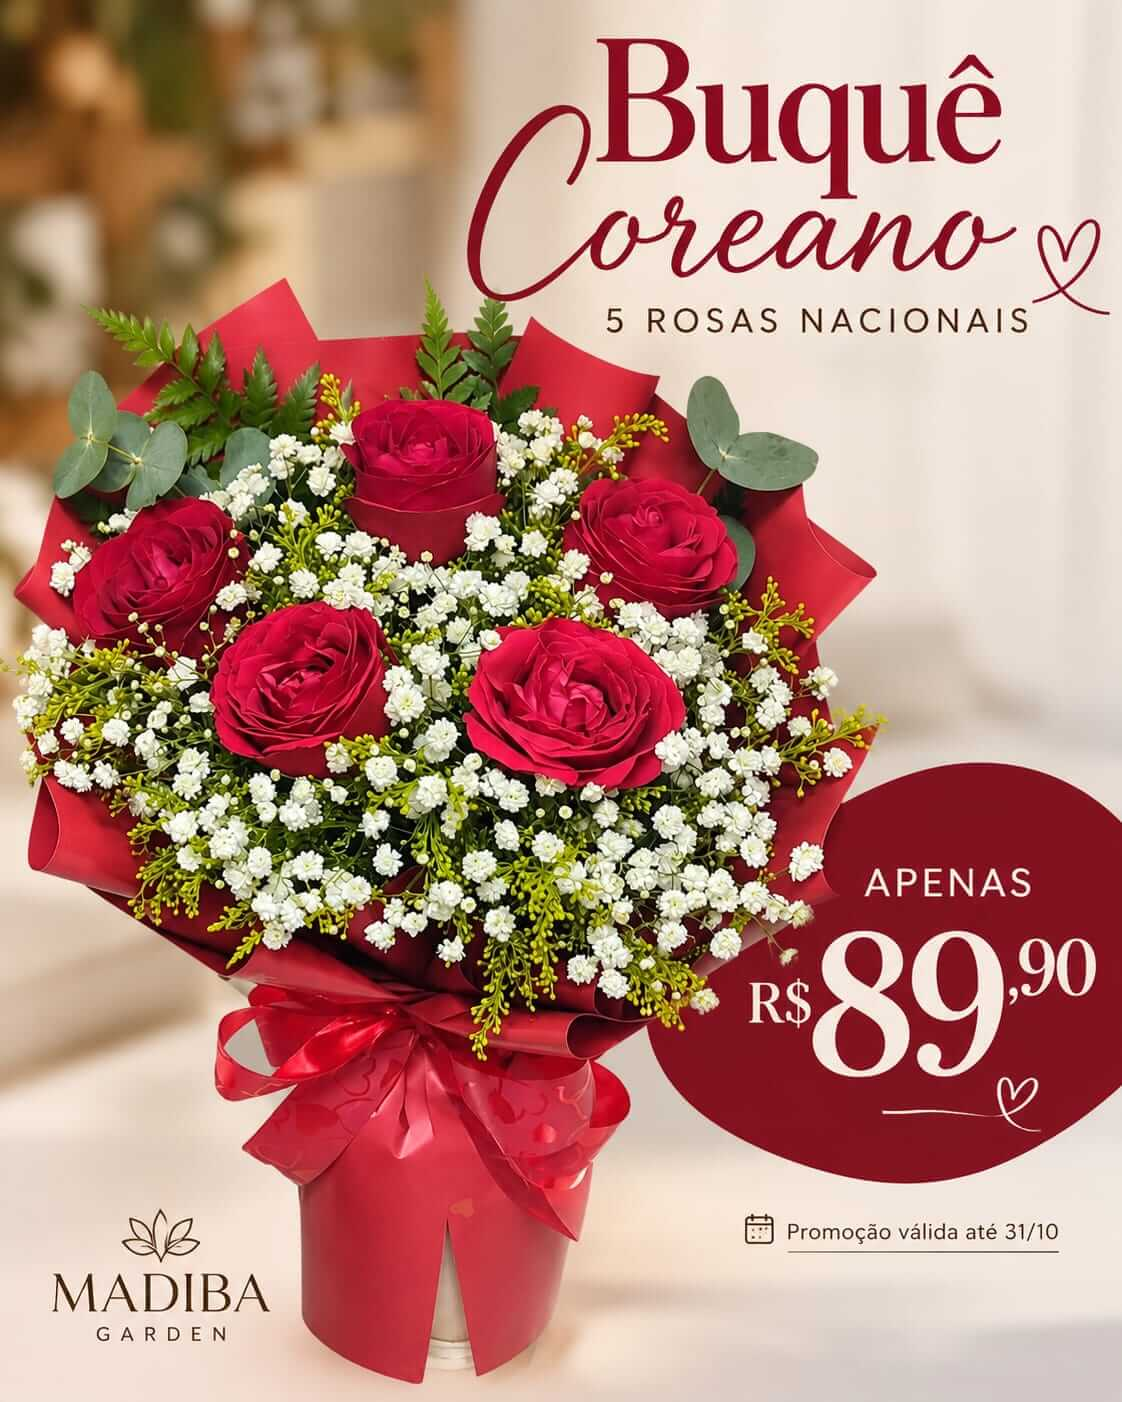
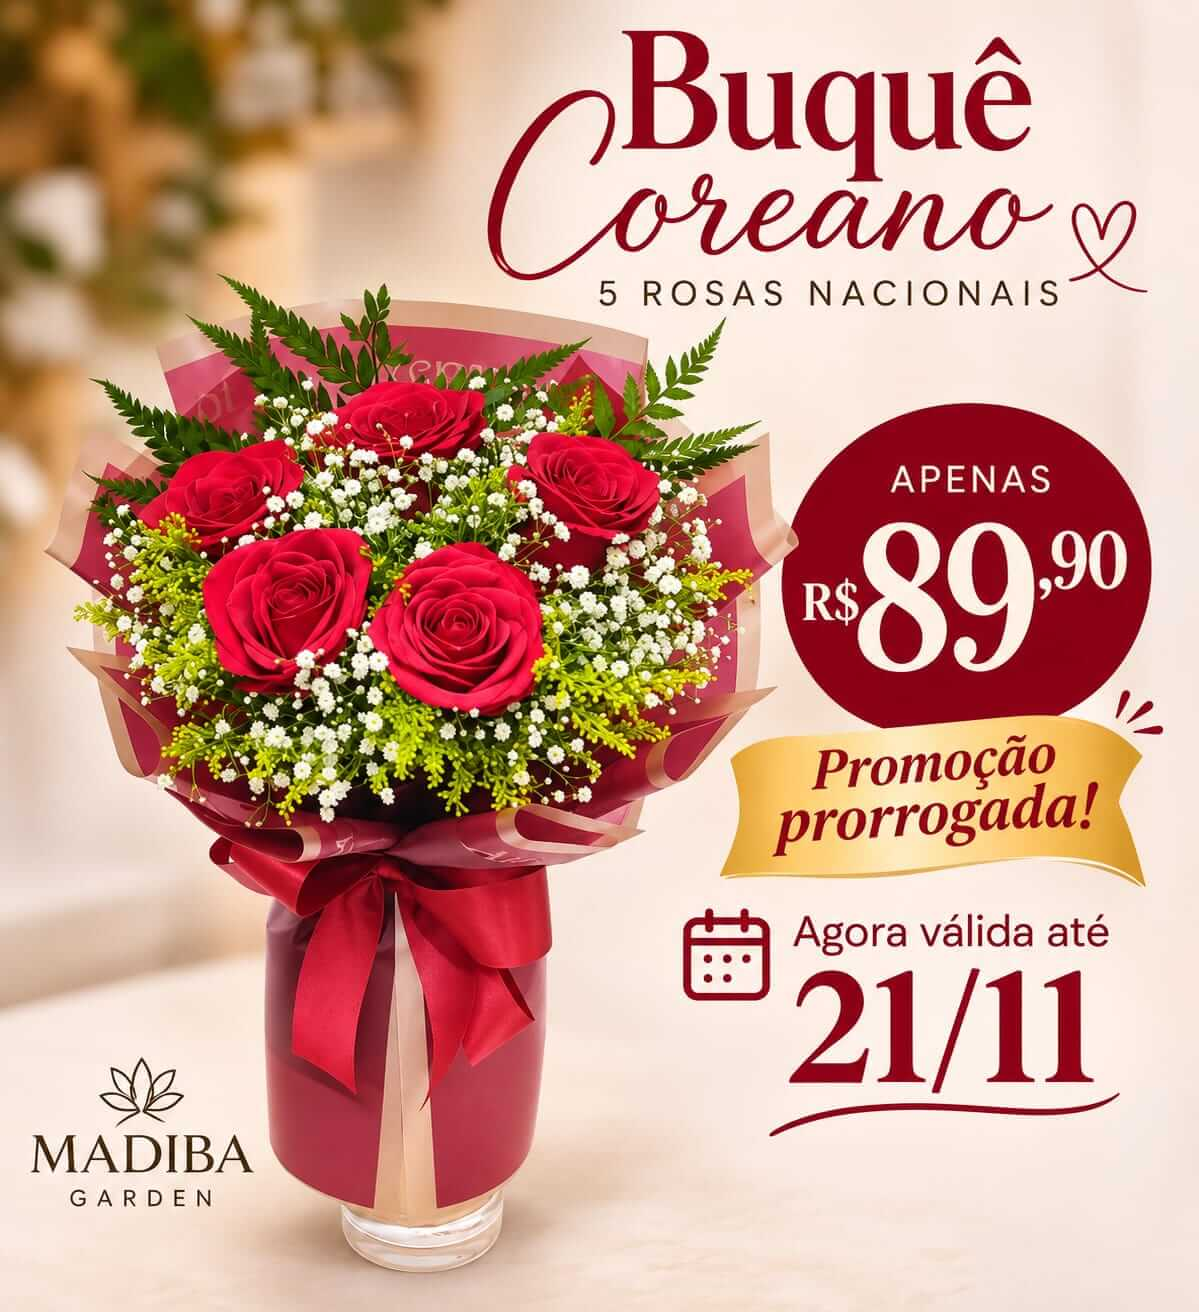
feat: combo pelucia + buque, pelucias e caixa coracao mdf
- Combo Pelucia + Buque 5 Rosas (id 54), R$129,90: 6 chocolates,
  balao, plaquinha, cartao e 6 polaroides. Marcado como featured e
  posto no topo do array: entre os "Popular" vale a ordem dos dados,
  entao ser o primeiro deles e o que o deixa em 2o na vitrine, ao
  lado da promocao ativa.
- Pelucias de 20cm e 30cm (ids 55 e 56), R$40,00 e R$50,00, em uma
  categoria nova "misc" (rotulo "Diversos"), sem adicionais.
- Caixa Coracao MDF (id 57), R$44,90, em "cestas": so cartao como
  adicional.
- Nova imagem da campanha do Buque 5 Rosas Nacionais (arquivo
  trocado no lugar; promo.image ja apontava para ele).

diff --git a/src/data/products.ts b/src/data/products.ts
@@ -1,6 +1,11 @@
 // ─── Types ───────────────────────────────────────────────────────────────────
 
-export type Category = "buques" | "buques-cetim" | "cestas" | "doces";
+export type Category =
+  | "buques"
+  | "buques-cetim"
+  | "cestas"
+  | "doces"
+  | "misc";
 
 // Variante de um produto (ADR-0005): opção mutuamente exclusiva escolhida no diálogo.
 // Carrega preço ABSOLUTO (não delta) e pode sobrepor a imagem e o nº de chocolates.
@@ -141,6 +146,7 @@ const POLAROIDES_MAX_BY_CATEGORY: Record<Category, number> = {
   "buques-cetim": 3,
   cestas: 0,
   doces: 0,
+  misc: 0,
 };
 
 // Limite de fotos do produto. 0 = o produto não oferece polaroides.
@@ -256,12 +262,28 @@ export const CATEGORY_LABELS: Record<Category, string> = {
   "buques-cetim": "Buquês Doce",
   cestas: "Cestas",
   doces: "Doces",
+  misc: "Diversos",
 };
 
 // ─── Products ────────────────────────────────────────────────────────────────
 
 export const PRODUCTS: Product[] = [
   // ── Buquês ───────────────────────────────────────────────────────────────
+  // O combo abre a lista de propósito: `featured` o põe logo depois da promoção
+  // ativa (ver rank() em useFilter), e entre os "Popular" vale a ordem daqui —
+  // ser o primeiro deles é o que o deixa em 2º na vitrine, ao lado da promo.
+  {
+    id: 54,
+    name: "Combo Pelúcia + Buquê 5 Rosas",
+    description:
+      "Buquê com 5 rosas vermelhas, mosquitinho e folhagem, embrulho temático com laço, acompanhado de uma pelúcia.",
+    price: 12990,
+    category: "buques",
+    image: "/images/combo-pelucia-buque-5-rosas-nacionais.jpeg",
+    featured: true,
+    maxChocolates: 6,
+    note: "Obs: a pelúcia pode variar. A embalagem/folhagem podem variar.",
+  },
   {
     id: 40,
     name: "Buquê 1 Rosa Importada",
@@ -841,6 +863,17 @@ export const PRODUCTS: Product[] = [
     exclusiveExtras: true,
     hideBalao: true,
   },
+  {
+    id: 57,
+    name: "Caixa Coração MDF",
+    description:
+      "Bandeja de coração em MDF com 10 bombons sortidos, embalada com celofane e laço.",
+    price: 4490,
+    category: "cestas",
+    image: "/images/caixa-coracao.jpeg",
+    hideBalao: true, // adicional: apenas cartão
+    hidePlaquinha: true,
+  },
 
   // ── Doces ────────────────────────────────────────────────────────────────
   {
@@ -866,5 +899,23 @@ export const PRODUCTS: Product[] = [
     price: 4990,
     category: "doces",
     image: "/images/ferrero_8U.jpeg",
+  },
+
+  // ── Diversos ─────────────────────────────────────────────────────────────
+  {
+    id: 55,
+    name: "Pelúcia 20cm",
+    description: "Pelúcia de 20cm, consulte a disponibilidade no WhatsApp",
+    price: 4000,
+    category: "misc",
+    image: "/images/pelucia-1.jpeg",
+  },
+  {
+    id: 56,
+    name: "Pelúcia 30cm",
+    description: "Pelúcia de 30cm, consulte a disponibilidade no WhatsApp",
+    price: 5000,
+    category: "misc",
+    image: "/images/pelucia-2.jpeg",
   },
 ];

diff --git a/src/hooks/filterParams.ts b/src/hooks/filterParams.ts
@@ -44,7 +44,7 @@ const URL_TO_SORT: Record<string, SortOrder> = {
   nome: "name",
 };
 
-const CATEGORIES: ReadonlyArray<Category | "todos"> = ["todos", "buques", "buques-cetim", "cestas", "doces"];
+const CATEGORIES: ReadonlyArray<Category | "todos"> = ["todos", "buques", "buques-cetim", "cestas", "doces", "misc"];
 
 // query string -> Filters. Param inválido/ausente cai no default (URL é editável).
 export function parseFilters(search: string): Filters {

diff --git a/src/components/FilterBar.tsx b/src/components/FilterBar.tsx
@@ -3,7 +3,7 @@ import { CATEGORY_LABELS, Category } from "../data/products";
 import { PriceRange, SortOrder } from "../hooks/useFilter";
 import "./FilterBar.css";
 
-const CATEGORIES: Array<Category | "todos"> = ["todos", "buques", "buques-cetim", "cestas", "doces"];
+const CATEGORIES: Array<Category | "todos"> = ["todos", "buques", "buques-cetim", "cestas", "doces", "misc"];
 
 interface Props {
   category: Category | "todos";
